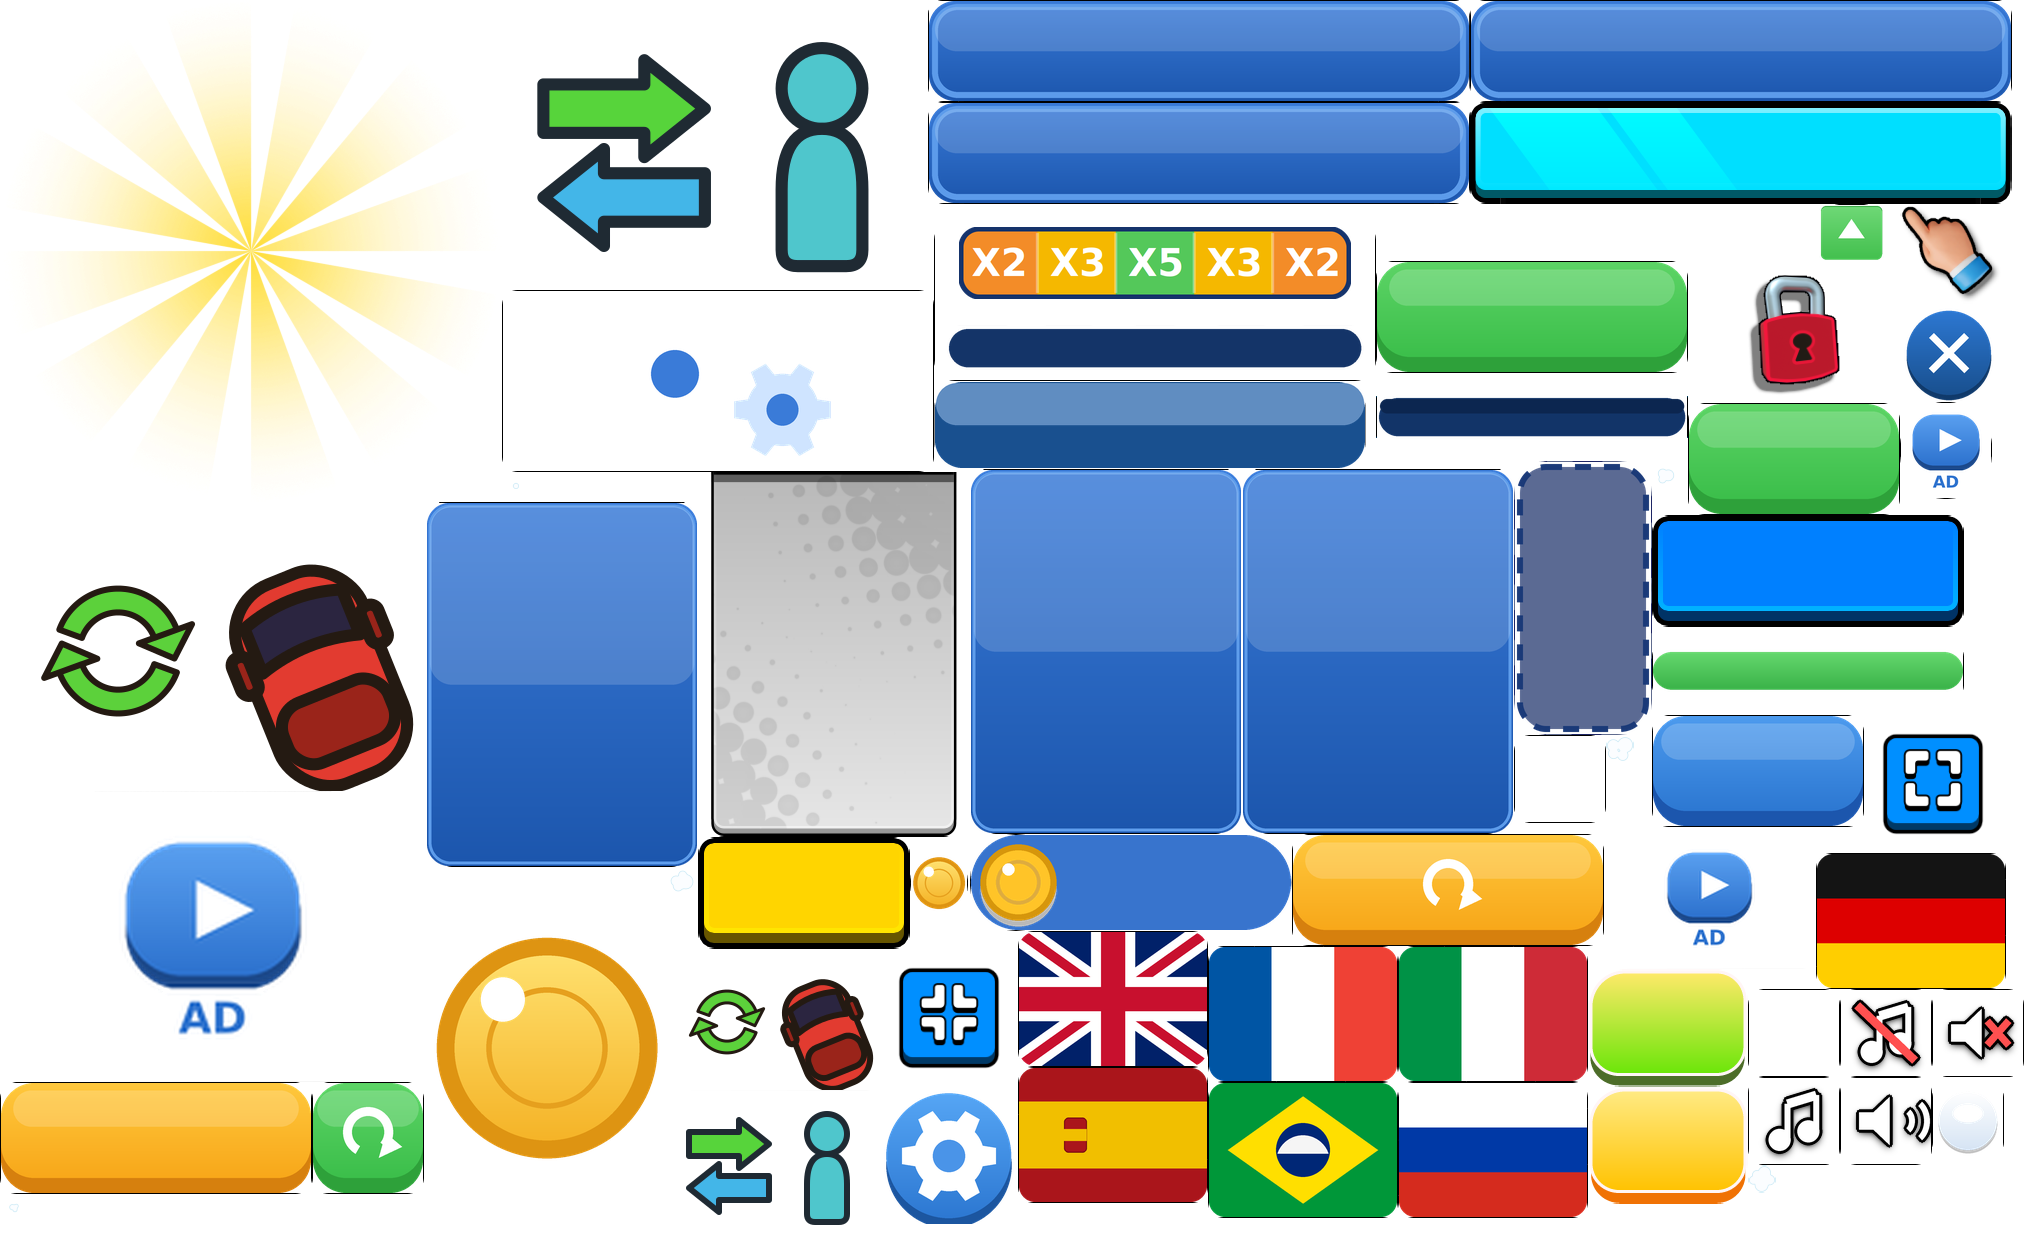
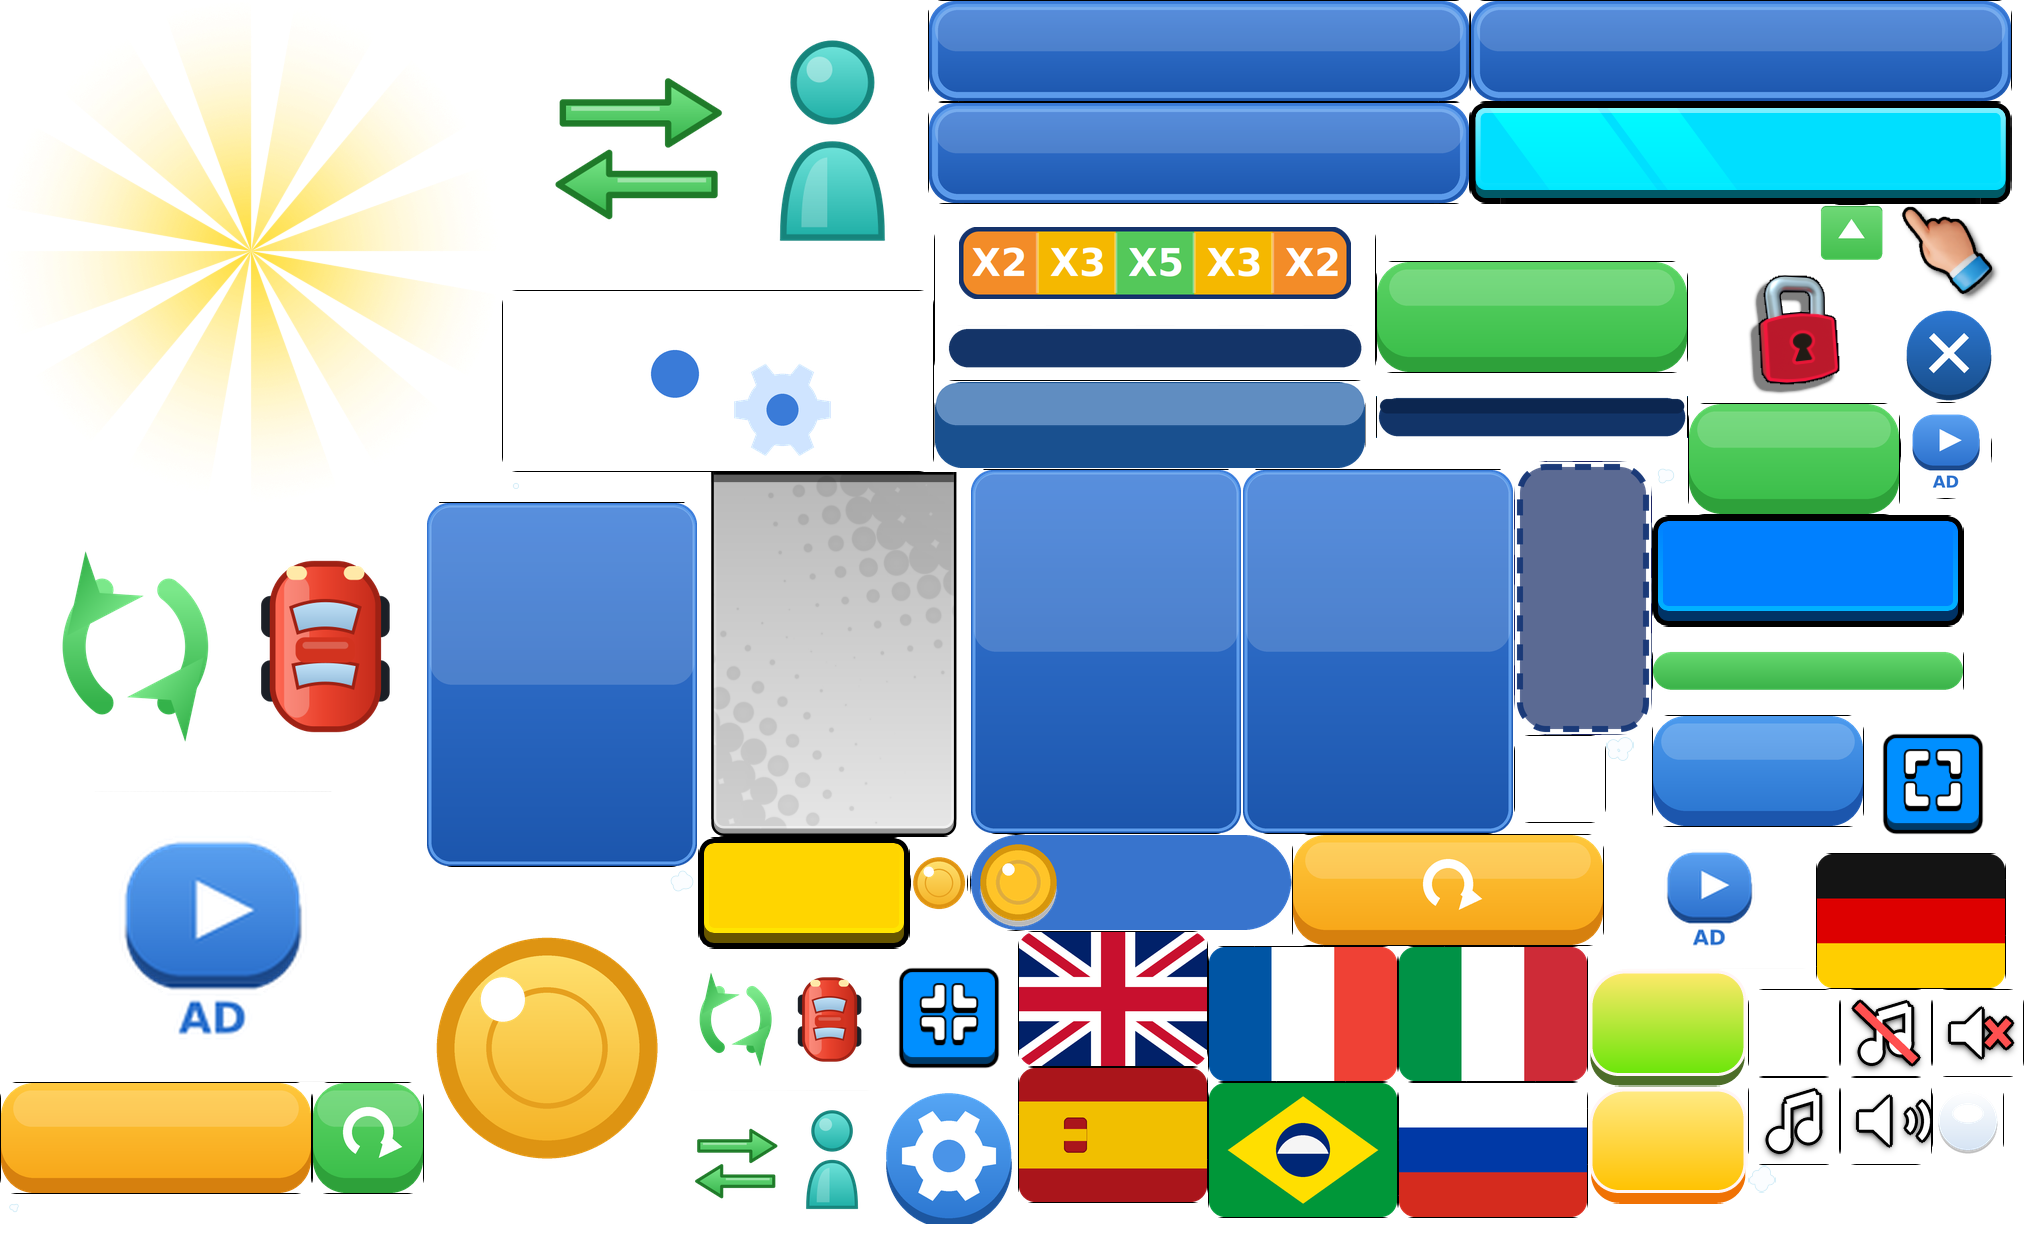
Add files via upload

Changed region(s): [[0.249, 0.0308, 0.4358, 0.2466], [0.0, 0.4315, 0.2179, 0.6472], [0.3424, 0.7705, 0.4358, 1.0]]

diff --git a/js/game.js b/js/game.js
@@ -2281,8 +2281,8 @@ function ResetGuiButtonAppearance(a,b,e){a.widthInPixels=b;a.heightInPixels=e;a.
 ContainerAssetTask.prototype.runTask=function(a,b,e){var f=this;BABYLON.SceneLoader.LoadAssetContainer(this.rootUrl,this.sceneFilename,a,function(h){f.loadedContainer=h;f.loadedMeshes=h.meshes;f.loadedParticleSystems=h.particleSystems;f.loadedSkeletons=h.skeletons;f.loadedAnimationGroups=h.animationGroups;b()},null,function(h,m,k){e(m,k)})};BABYLON.AssetsManager.prototype.addContainerTask=function(a,b,e,f){a=new ContainerAssetTask(a,b,e,f);this._tasks.push(a);return a};
 var AssetLoader=function(a){AssetLoader.instance=this;this.create(a)};AssetLoader.instance=null;
 AssetLoader.prototype={create:function(a){this.callback={};this.assetsManager=new BABYLON.AssetsManager(a);this.assetsManager.useDefaultLoadingScreen=!1;this.assetsManager.autoHideLoadingUI=!1;this.assetsManager.addContainerTask=function(b,e,f,h){b=new ContainerAssetTask(b,e,f,h);this._tasks.push(b);return b};this.assetsManager.onProgress=function(b,e,f){onProgress(f.name,Math.round((e-b)/e*100))};this.loadedXMLs=[];this.loadedJSONs=[];this.loadedImages=[];this.loadedTextures=[];this.loadedContainers=
-[];this.loadedSounds=[]},prepareAssetsTasks:function(a){for(var b=0;b<a.length;b++){var e=a[b].type;"xml"==e&&(this.assetsManager.addTextFileTask(a[b].file,a[b].root+a[b].file).onSuccess=function(f){var h=new DOMParser;this.loadedXMLs[f.name]=h.parseFromString(f.text,"application/xml")}.bind(this));"json"==e&&(this.assetsManager.addTextFileTask(a[b].file,a[b].root+a[b].file+"?v=cidi54").onSuccess=function(f){this.loadedJSONs[f.name]=JSON.parse(f.text)}.bind(this));"texture"==e&&(this.assetsManager.addTextureTask(a[b].file,
-a[b].root+a[b].file+"?v=cidi54").onSuccess=function(f){this.loadedTextures[f.name]=f.texture}.bind(this));"image"==e&&(this.assetsManager.addImageTask(a[b].file,a[b].root+a[b].file+"?v=cidi54").onSuccess=function(f){this.loadedImages[f.name]=f.image}.bind(this));"model"==e&&(this.assetsManager.addContainerTask(a[b].file,"",a[b].root,a[b].file).onSuccess=function(f){f.loadedContainer.rootNodes[0].name=f.name;this.loadedContainers[f.name]=f.loadedContainer;this.loadedContainers[f.name.toLowerCase()]=f.loadedContainer;for(var h=
+[];this.loadedSounds=[]},prepareAssetsTasks:function(a){for(var b=0;b<a.length;b++){var e=a[b].type;"xml"==e&&(this.assetsManager.addTextFileTask(a[b].file,a[b].root+a[b].file).onSuccess=function(f){var h=new DOMParser;this.loadedXMLs[f.name]=h.parseFromString(f.text,"application/xml")}.bind(this));"json"==e&&(this.assetsManager.addTextFileTask(a[b].file,a[b].root+a[b].file+"?v=cidi57").onSuccess=function(f){this.loadedJSONs[f.name]=JSON.parse(f.text)}.bind(this));"texture"==e&&(this.assetsManager.addTextureTask(a[b].file,
+a[b].root+a[b].file+"?v=cidi57").onSuccess=function(f){this.loadedTextures[f.name]=f.texture}.bind(this));"image"==e&&(this.assetsManager.addImageTask(a[b].file,a[b].root+a[b].file+"?v=cidi57").onSuccess=function(f){this.loadedImages[f.name]=f.image}.bind(this));"model"==e&&(this.assetsManager.addContainerTask(a[b].file,"",a[b].root,a[b].file).onSuccess=function(f){f.loadedContainer.rootNodes[0].name=f.name;this.loadedContainers[f.name]=f.loadedContainer;this.loadedContainers[f.name.toLowerCase()]=f.loadedContainer;for(var h=
 0;h<this.loadedContainers[f.name].materials.length;h++)this.loadedContainers[f.name].materials[h].metallic=0,this.loadedContainers[f.name].materials[h].ambientColor=new BABYLON.Color3(.4,.4,.4),this.loadedContainers[f.name].materials[h].cullBackFaces=!0,this.loadedContainers[f.name].materials[h].freeze()}.bind(this));"audio"==e&&(this.assetsManager.addBinaryFileTask(a[b].file,a[b].root+a[b].file+"?v=cidi48").onSuccess=function(f){this.loadedSounds[f.name]=new BABYLON.Sound(f.name,f.data,activeScene.scene,function(){this.loadedSounds[f.name].stop()}.bind(this),
 {autoplay:!1})}.bind(this));"skybox"==e&&(e=null,a[b].hasOwnProperty("extensions")&&(e=a[b].extensions),this.assetsManager.addCubeTextureTask(a[b].file,a[b].root+a[b].file,e).onSuccess=function(f){}.bind(this))}},loadFonts:function(a){void 0===a&&(a=null);var b=document.createElement("style");b.innerHTML="\n@font-face {\n    font-family: 'gamefont';\n    src: url('assets/fnt/gamefont.ttf?v=cidi41') format('truetype');\n    font-weight: normal;\n    font-style: normal;\n}\n"+document.head.appendChild(b);b=
 document.createElement("div");b.innerHTML="<span style=\"font-family: 'gamefont', 'Arial Black', sans-serif, normal;\">PRELOAD</span>";document.body.appendChild(b);document.fonts.ready.then(function(){null!=a&&a()})},loadSplashAssets:function(a){this.callback=a;this.prepareAssetsTasks([{root:"assets/dat/",file:"m.isr",type:"xml"},{root:"assets/imgs/",file:"main_bg.jpg",type:"image"},{root:"assets/imgs/",file:"logo_big.png",type:"image"},{root:"assets/imgs/",file:"splash.jpg",type:"image"},{root:"assets/imgs/",

diff --git a/index.html b/index.html
@@ -481,7 +481,7 @@
 
 
     <script src="https://app.cidi.games/sdk/cidi-sdk.js"></script>
-    <script src="js/game.js?v=cidi54"></script>
+    <script src="js/game.js?v=cidi57"></script>
         
 
 